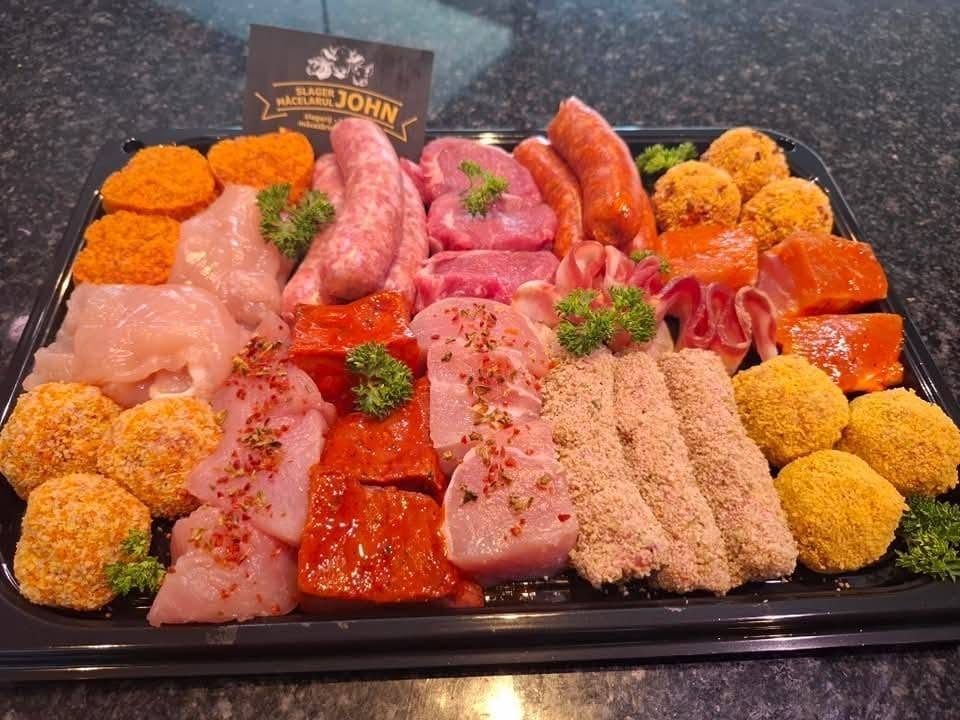
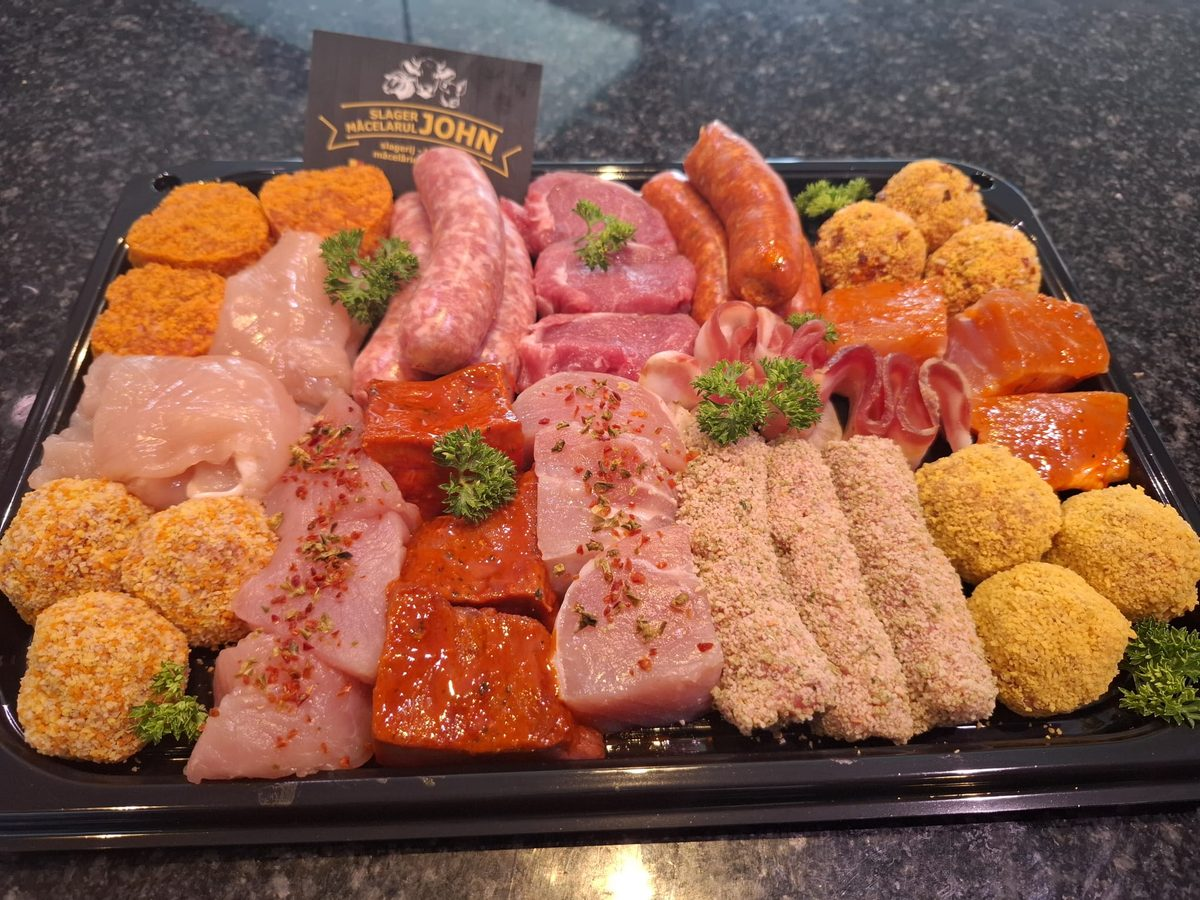
row 22e: Tapas 2 out, gourmet-9 without its photo, fondue-14 from the 05.10 original, the catering lead NL + RO
- products.json (239 items), menus.json, product-photos.json: tapas-2 / ej26-tapas-2 removed (never made, Georgiana 27.10)
- product-photos.json: gourmet-9 entry removed (its shot was the Fondue 14 photo, shown twice); fondue-14 from the 2040 px original
- products/fondue-14-soorten-slagerij-john.jpg rebuilt: 4:3 at focal 50/50, 1200 x 900, q82; tapasschotels + gourmetschotel product copies deleted (unused; the home/ twins stay)
- traiteur.ts: NL + RO lead = lexicon 5.21 / 6 Catering (27.10); title, meta, H1 unchanged
- thumbs.ts: comment example ej26-tapas-mix

diff --git a/src/i18n/traiteur.ts b/src/i18n/traiteur.ts
@@ -17,8 +17,9 @@ export const traiteurNl = {
   eyebrow: 'Traiteur',
   h1: 'Traiteur in de regio Wingene, Tielt en Lichtervelde.',
   accent: 'Ook barbecue aan huis, met kok.',
-  /** §5.21 lead; its last sentence „— en verder, tot 200 km” = 20.10, D-46 (owners' form `home_bbq.max_km` 200) */
-  lead: 'Traiteur voor uw feest: koude schotels, hapjes en buffetten, gourmet- en BBQ-pakketten, af te halen in Zwevezele of geleverd aan huis. En barbecue aan huis met kok, in de regio Wingene, Tielt, Lichtervelde en Roeselare — en verder, tot 200 km.',
+  /** §5.21 lead (27.10: „traiteur aan huis” + the Belgian / Romanian styles, Georgiana WhatsApp 11:29); its last sentence
+   *  „— en verder, tot 200 km” = 20.10, D-46 (owners' form `home_bbq.max_km` 200) */
+  lead: 'Traiteur aan huis voor uw feest, op uw manier: Belgisch met buffet, hamburgers en barbecue ter plaatse, of Roemeens, per persoon op het bord geserveerd. Koude schotels, hapjes en buffetten, gourmet- en BBQ-pakketten, af te halen in Zwevezele of geleverd aan huis. En barbecue aan huis met kok, in de regio Wingene, Tielt, Lichtervelde en Roeselare — en verder, tot 200 km.',
   /** §5.3 primary (traiteur) → the form on this page; §5.3 secondary → tel: */
   primary: 'Vraag een offerte',
   call: 'Bel ons',
@@ -143,7 +144,7 @@ export const traiteurRo: typeof traiteurNl = {
   eyebrow: 'Catering',
   h1: 'Catering românesc în Flandra de Vest.',
   accent: 'Botez, nuntă, aniversare sau un grătar cu bucătar, la tine acasă.',
-  lead: 'Traiteur, cum se spune aici, adică mâncare gătită la comandă pentru petreceri: platouri reci, aperitive și bufete, pachete gourmet și BBQ cu mici și cârnați de casă, de ridicat din Zwevezele sau livrate acasă. Și grătar la domiciliu cu bucătar, în zona Wingene, Tielt, Lichtervelde și Roeselare, și mai departe, până la 200 de km.', // 20.10, D-46 (§6 Catering)
+  lead: 'Traiteur, cum se spune aici, adică mâncare gătită la comandă pentru petrecerea ta. O facem pentru orice preferință: în stil belgian, cu bufet, hamburgeri și grătar la fața locului, sau în stil românesc, cu farfurii individuale. Platouri reci, aperitive și bufete, pachete gourmet și BBQ cu mici și cârnați de casă, de ridicat din Zwevezele sau livrate acasă. Și grătar la domiciliu cu bucătar, în zona Wingene, Tielt, Lichtervelde și Roeselare, și mai departe, până la 200 de km.', // 27.10 (§6 Catering lead, Georgiana 11:29); „până la 200 de km” 20.10, D-46
   primary: 'Cere o ofertă',
   call: 'Sună-ne',
 

diff --git a/src/lib/thumbs.ts b/src/lib/thumbs.ts
@@ -20,7 +20,7 @@ export interface ProductPhoto {
 
 const entries = data.products as Record<string, ProductPhoto>;
 
-/** A menu row (menus.json `ej26-tapas-2`) is its product's row (`tapas-2`): the folder's year prefix comes off. */
+/** A menu row (menus.json `ej26-tapas-mix`) is its product's row (`tapas-mix`): the folder's year prefix comes off. */
 const productId = (id: string) => id.replace(/^ej\d{2}-/, '');
 
 export const thumbOf = (id: string | undefined): ProductPhoto | null => (id ? (entries[id] ?? entries[productId(id)] ?? null) : null);
